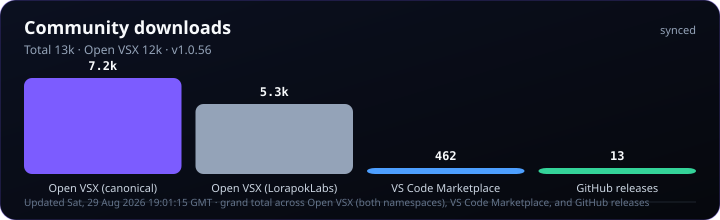
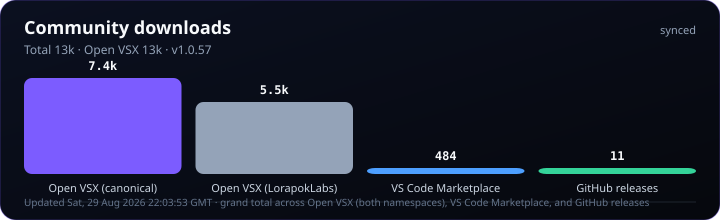
fix(release): sync package and site artifacts to live v1.0.57
Bump root version to match marketplace/GitHub release so site-data
generation and marketing website deploy succeed. Regenerate SEO and
site-data artifacts, fix stats-refresh lint, and de-hardcode manual
test version strings.

diff --git a/website/index.html b/website/index.html
@@ -46,8 +46,8 @@
         "priceCurrency": "USD"
       },
       "featureList": "Usage dashboard, security scanner, local insights, budget tracking, multi-account switching",
-      "downloadUrl": "https://github.com/Maijied/Cursor-Curse-Monitor-by-Lorapok/releases/download/v1.0.56/cursor-curse-monitor-by-lorapok-1.0.56.vsix",
-      "softwareVersion": "1.0.56",
+      "downloadUrl": "https://github.com/Maijied/Cursor-Curse-Monitor-by-Lorapok/releases/download/v1.0.57/cursor-curse-monitor-by-lorapok-1.0.57.vsix",
+      "softwareVersion": "1.0.57",
       "author": {
         "@type": "Person",
         "name": "Mohammad Maizied Hasan Majumder",
@@ -70,7 +70,7 @@
         "priceCurrency": "USD"
       },
       "featureList": "Budget tracker popup, credential paste guard, cursor.com token capture",
-      "downloadUrl": "https://github.com/Maijied/Cursor-Curse-Monitor-by-Lorapok/releases/latest",
+      "downloadUrl": "https://github.com/Maijied/Cursor-Curse-Monitor-by-Lorapok/releases/tag/v1.0.57",
       "publisher": {
         "@type": "Organization",
         "name": "Lorapok Labs",

diff --git a/website/admin/functions/api/_shared/stats-refresh.js b/website/admin/functions/api/_shared/stats-refresh.js
@@ -21,7 +21,7 @@ import {
 
 /** @param {Record<string, unknown>} snapshot */
 function stableSnapshotBody(snapshot) {
-  const { refreshedAt, triggeredBy, ...rest } = snapshot;
+  const { refreshedAt: _refreshedAt, triggeredBy: _triggeredBy, ...rest } = snapshot;
   return rest;
 }
 

diff --git a/docs/ADMIN_MANUAL_TEST.md b/docs/ADMIN_MANUAL_TEST.md
@@ -139,7 +139,7 @@ node scripts/validate-seo.mjs
 |---|------|----------|
 | 9.1 | `npm run package` | VSIX builds without errors |
 | 9.2 | Install VSIX in Cursor/VS Code | Extension activates |
-| 9.3 | Open usage dashboard sidebar | Version shows **0.5.6** |
+| 9.3 | Open usage dashboard sidebar | Version matches root `package.json` |
 | 9.4 | Trigger refresh | No duplicate refresh / mutex warnings in dev console |
 | 9.5 | Large `state.vscdb` fixture | Token read succeeds (sqlite path, not full WASM load) |
 
@@ -155,9 +155,9 @@ node scripts/validate-seo.mjs
 
 | # | Check | Expected |
 |---|-------|----------|
-| 10.1 | `website/site-data.json` | `"version": "0.5.6"`, `github.tags` populated |
-| 10.2 | `website/seo.json` | `softwareVersion` = 0.5.6 |
-| 10.3 | Local website preview | Install commands reference 0.5.6 |
+| 10.1 | `website/site-data.json` | `"version"` matches `package.json`, `github.tags` populated |
+| 10.2 | `website/seo.json` | `softwareVersion` matches `package.json` |
+| 10.3 | Local website preview | Install commands reference current release version |
 
 ---
 
@@ -171,19 +171,20 @@ node scripts/validate-seo.mjs
    - **Publish Market:** `Both`
    - **Release Channel:** `Production`
    - **Version Bump Type:** `custom`
-   - **Custom Version:** `1.0.56` (if not already bumped locally)
+   - **Custom Version:** current `package.json` version (if not already bumped locally)
 4. Wait for `deploy` + `website` jobs.
-5. Verify:
-   - [Open VSX lorapok-labs](https://open-vsx.org/extension/lorapok-labs/cursor-curse-monitor-by-lorapok) → 1.0.56
-   - [VS Code Marketplace](https://marketplace.visualstudio.com/items?itemName=LorapokLabs.cursor-curse-monitor-by-lorapok) → 1.0.56
-   - GitHub Release `v1.0.56` with VSIX asset
+5. Verify marketplace listings and GitHub Release match `package.json` version:
+   - [Open VSX lorapok-labs](https://open-vsx.org/extension/lorapok-labs/cursor-curse-monitor-by-lorapok)
+   - [VS Code Marketplace](https://marketplace.visualstudio.com/items?itemName=LorapokLabs.cursor-curse-monitor-by-lorapok)
+   - GitHub Release tag with VSIX asset
 
 ### Option B — Tag push (if version already on main)
 
 ```bash
-git tag v1.0.56
+# Replace VERSION with package.json version
+git tag vVERSION
 git push origin main
-git push origin v1.0.56
+git push origin vVERSION
 ```
 
 ### Option C — Local Open VSX only
